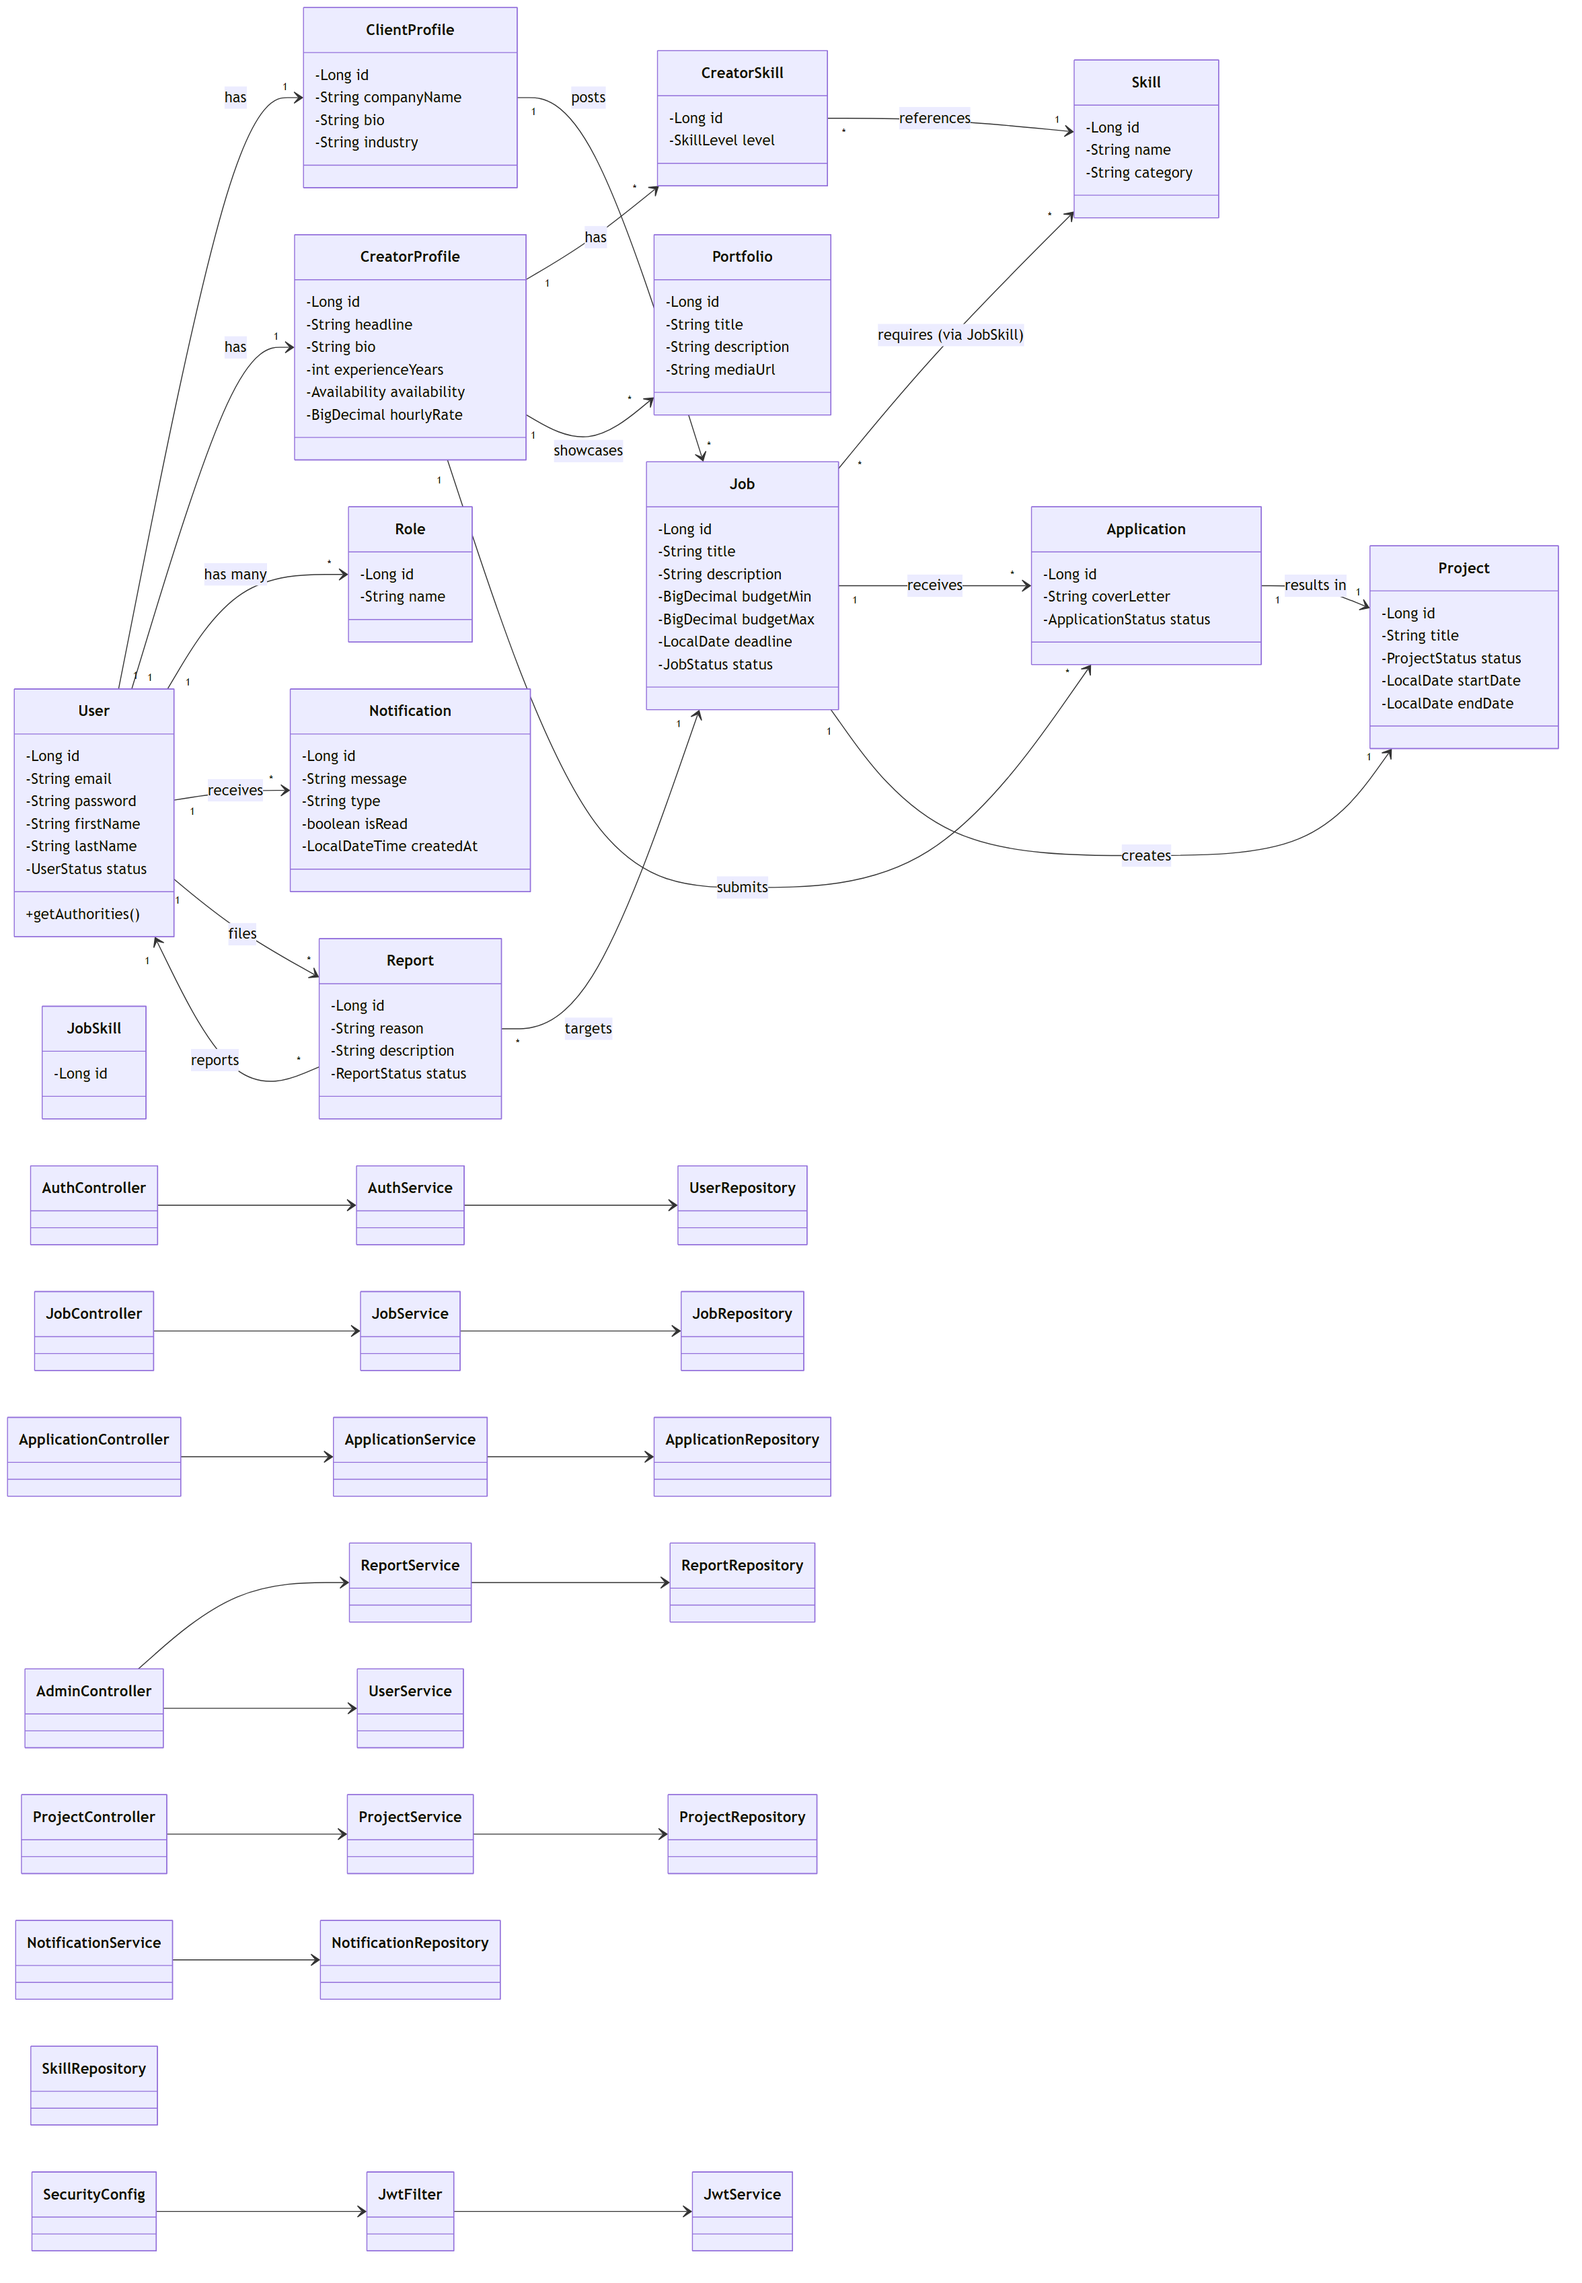
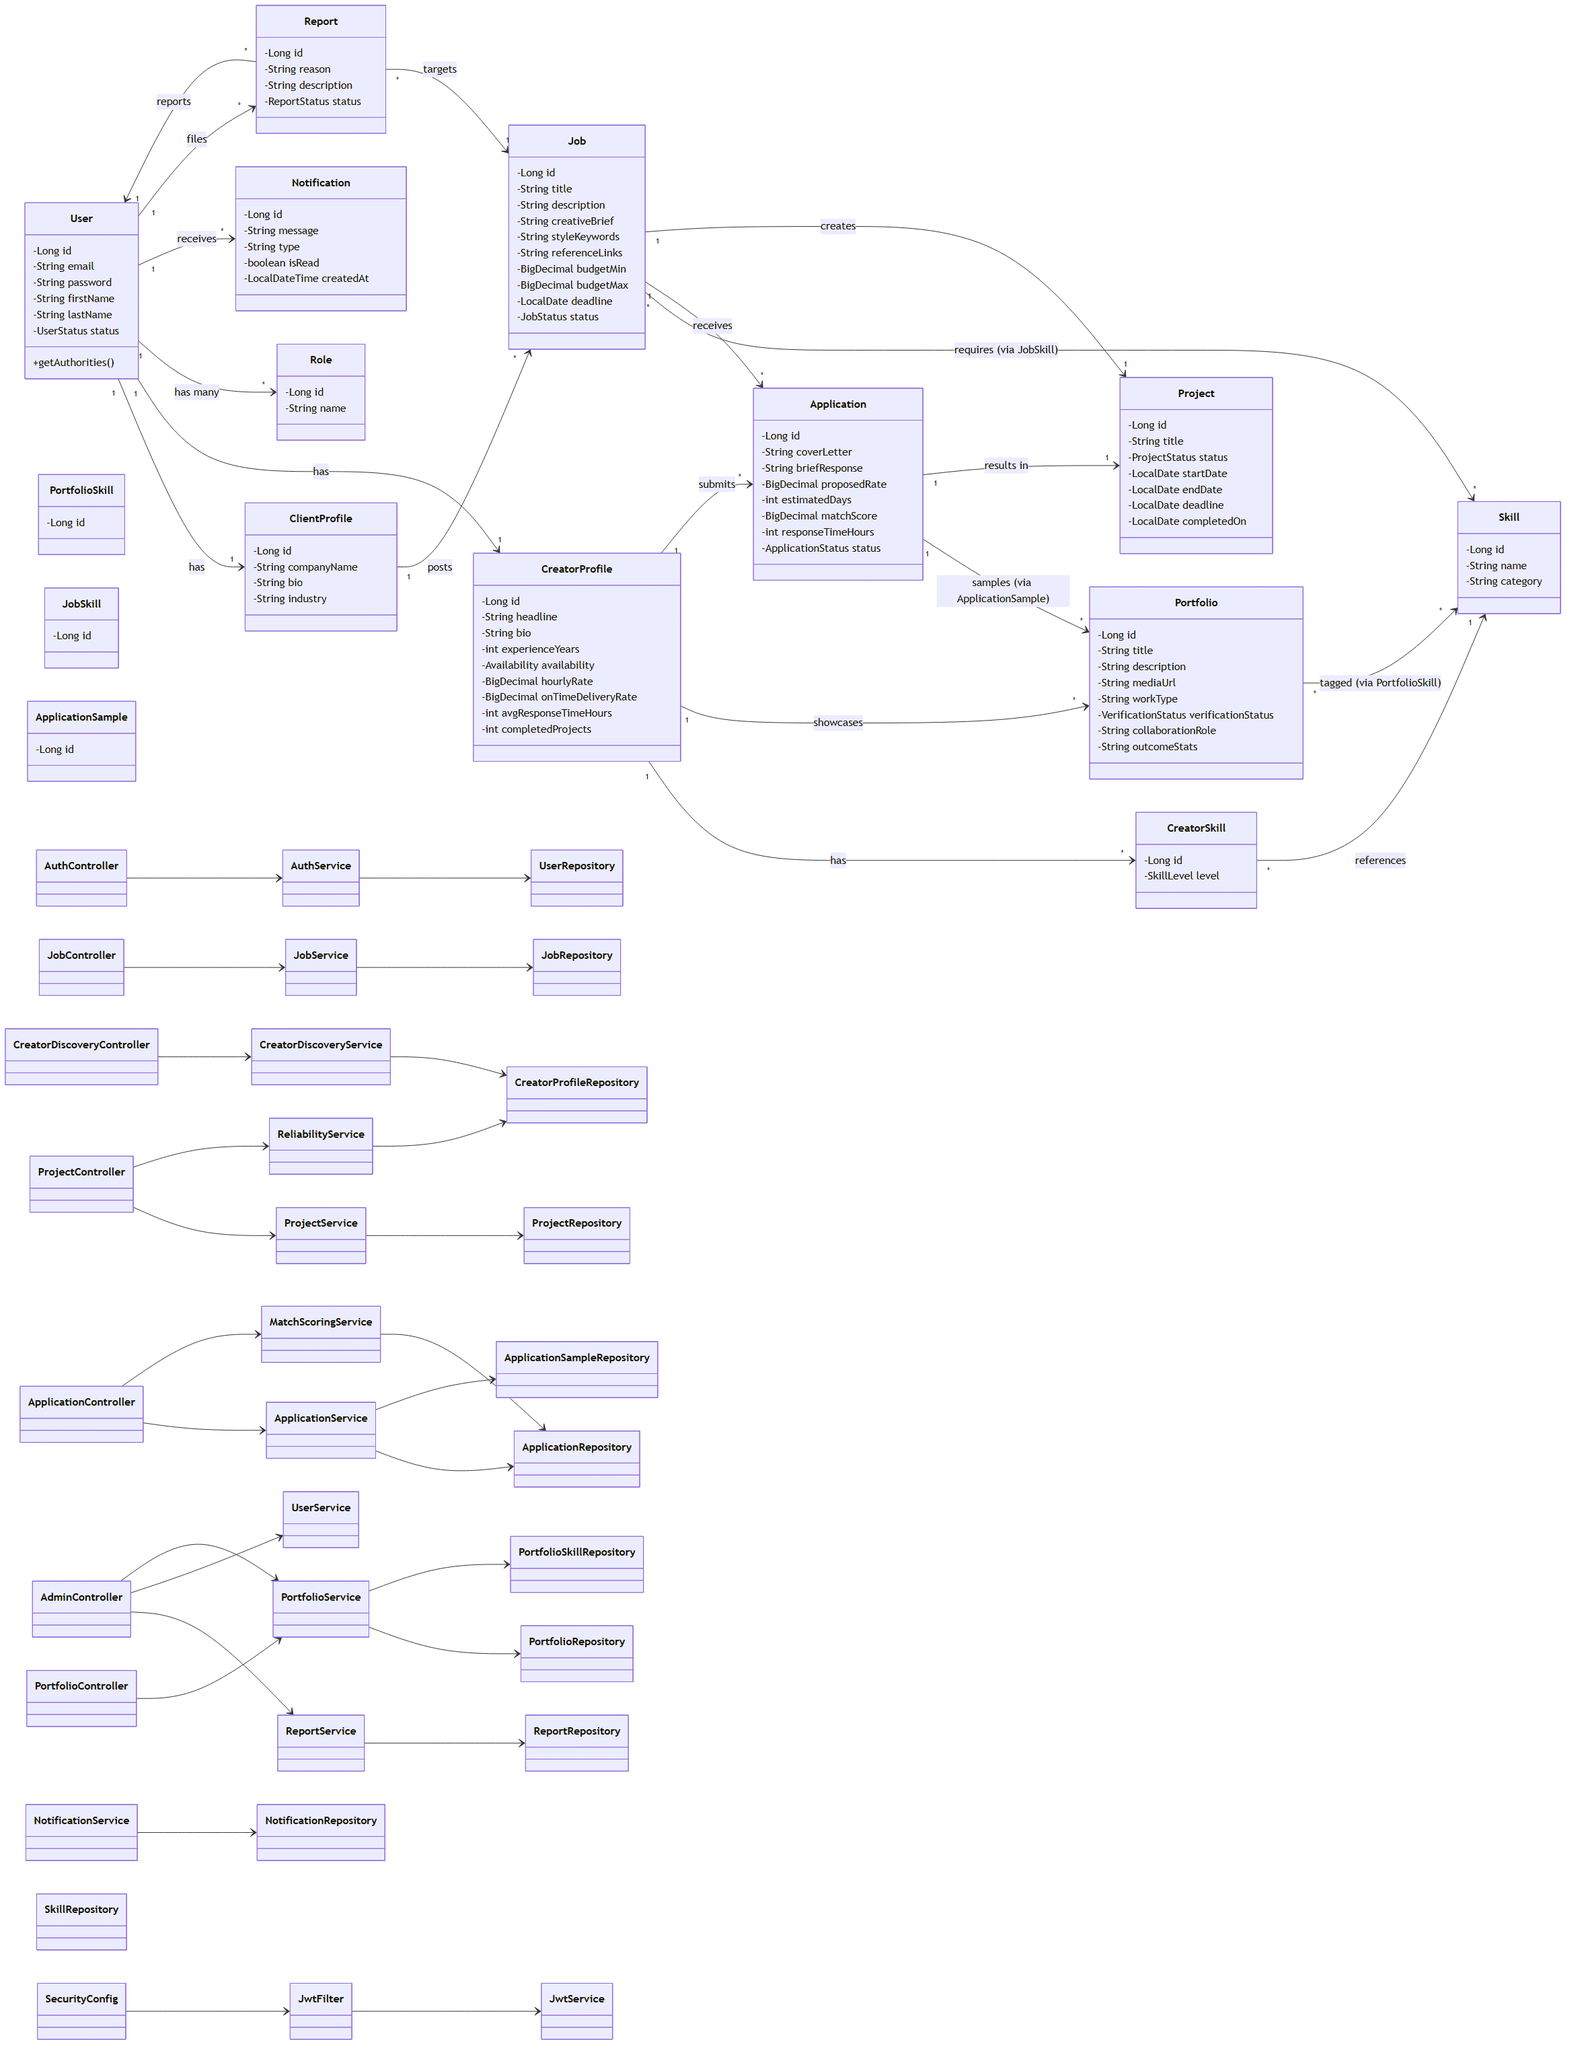
docs: rework class diagram and architecture with matching engine and radar

diff --git a/class-diagram.md b/class-diagram.md
@@ -35,6 +35,9 @@ classDiagram
         -int experienceYears
         -Availability availability
         -BigDecimal hourlyRate
+        -BigDecimal onTimeDeliveryRate
+        -int avgResponseTimeHours
+        -int completedProjects
     }
 
     class Skill {
@@ -53,12 +56,23 @@ classDiagram
         -String title
         -String description
         -String mediaUrl
+        -String workType
+        -VerificationStatus verificationStatus
+        -String collaborationRole
+        -String outcomeStats
+    }
+
+    class PortfolioSkill {
+        -Long id
     }
 
     class Job {
         -Long id
         -String title
         -String description
+        -String creativeBrief
+        -String styleKeywords
+        -String referenceLinks
         -BigDecimal budgetMin
         -BigDecimal budgetMax
         -LocalDate deadline
@@ -72,7 +86,16 @@ classDiagram
     class Application {
         -Long id
         -String coverLetter
+        -String briefResponse
+        -BigDecimal proposedRate
+        -int estimatedDays
+        -BigDecimal matchScore
+        -int responseTimeHours
         -ApplicationStatus status
+    }
+
+    class ApplicationSample {
+        -Long id
     }
 
     class Project {
@@ -81,6 +104,8 @@ classDiagram
         -ProjectStatus status
         -LocalDate startDate
         -LocalDate endDate
+        -LocalDate deadline
+        -LocalDate completedOn
     }
 
     class Notification {
@@ -100,23 +125,33 @@ classDiagram
 
     class AuthController
     class JobController
+    class CreatorDiscoveryController
     class ApplicationController
     class ProjectController
+    class PortfolioController
     class AdminController
 
     class AuthService
     class UserService
     class JobService
+    class CreatorDiscoveryService
+    class MatchScoringService
     class ApplicationService
     class ProjectService
+    class ReliabilityService
+    class PortfolioService
     class NotificationService
     class ReportService
 
     class UserRepository
     class JobRepository
+    class CreatorProfileRepository
     class ApplicationRepository
+    class ApplicationSampleRepository
     class ProjectRepository
     class SkillRepository
+    class PortfolioRepository
+    class PortfolioSkillRepository
     class NotificationRepository
     class ReportRepository
 
@@ -130,10 +165,12 @@ classDiagram
     CreatorProfile "1" --> "*" CreatorSkill : has
     CreatorSkill "*" --> "1" Skill : references
     CreatorProfile "1" --> "*" Portfolio : showcases
+    Portfolio "*" --> "*" Skill : tagged (via PortfolioSkill)
     ClientProfile "1" --> "*" Job : posts
     Job "*" --> "*" Skill : requires (via JobSkill)
     Job "1" --> "*" Application : receives
     CreatorProfile "1" --> "*" Application : submits
+    Application "1" --> "*" Portfolio : samples (via ApplicationSample)
     Job "1" --> "1" Project : creates
     Application "1" --> "1" Project : results in
     User "1" --> "*" Notification : receives
@@ -143,15 +180,26 @@ classDiagram
 
     AuthController --> AuthService
     JobController --> JobService
+    CreatorDiscoveryController --> CreatorDiscoveryService
     ApplicationController --> ApplicationService
+    ApplicationController --> MatchScoringService
     ProjectController --> ProjectService
+    ProjectController --> ReliabilityService
+    PortfolioController --> PortfolioService
     AdminController --> ReportService
     AdminController --> UserService
+    AdminController --> PortfolioService
 
     AuthService --> UserRepository
     JobService --> JobRepository
+    CreatorDiscoveryService --> CreatorProfileRepository
+    MatchScoringService --> ApplicationRepository
     ApplicationService --> ApplicationRepository
+    ApplicationService --> ApplicationSampleRepository
     ProjectService --> ProjectRepository
+    ReliabilityService --> CreatorProfileRepository
+    PortfolioService --> PortfolioRepository
+    PortfolioService --> PortfolioSkillRepository
     NotificationService --> NotificationRepository
     ReportService --> ReportRepository
 

diff --git a/system-architecture.md b/system-architecture.md
@@ -4,32 +4,52 @@
 
 ```mermaid
 flowchart TB
-    subgraph FRONTEND["Frontend (Web Client)"]
-        BROWSER["React Browser App"]
+    subgraph FRONTEND["Frontend — React + Vite + TypeScript"]
+        LANDING["Marketing Landing\n- Parallax scroll hero\n- Categories + CTAs"]
+        MARKET["Discovery (Card UI)\n- Creator Radar cards\n- Job cards + filters"]
+        COMPARE["Comparison View\n- Side-by-side shortlist"]
+        DASH["Dashboards\n- Client / Creator / Admin"]
     end
 
-    subgraph BACKEND["Spring Boot Application"]
+    subgraph BACKEND["Spring Boot Application (Java 21)"]
         SEC["Security Layer\n- JWT Filter\n- Authentication Manager\n- Role-based Authorization"]
-        CTRL["Controller Layer\n- REST Controllers (Auth, User, Job,\nApplication, Project, Admin)"]
-        SVC["Service Layer\n- Business Logic\n- Validation\n- Notifications"]
+        CTRL["Controller Layer\n- Auth, User, Job, CreatorDiscovery,\nApplication, Project, Portfolio, Admin"]
+        SVC["Service Layer\n- Business Logic + Validation"]
+        MATCH["Matching Engine\n- MatchScoringService\n- Skill / budget / availability /\ndeadline / reliability score"]
+        REL["Reliability Module\n- ReliabilityService\n- On-time rate + response time"]
+        RADAR["Creator Radar\n- CreatorDiscoveryService\n- Skill + availability search"]
         REPO["Repository Layer\n- Spring Data JPA Repositories"]
         XCUT["Cross-cutting\n- Exception Handler\n- Audit Logging"]
     end
 
-    DB[("MySQL Database\n- 13 tables\n- JPA-managed schema")]
+    DB[("MySQL Database\n- 15 tables\n- JPA-managed schema")]
 
-    BROWSER -->|"HTTPS JSON / REST + JWT"| SEC
+    LANDING --> MARKET
+    MARKET --> COMPARE
+    MARKET -->|"HTTPS JSON / REST + JWT"| SEC
+    COMPARE -->|"HTTPS JSON / REST + JWT"| SEC
+    DASH -->|"HTTPS JSON / REST + JWT"| SEC
     SEC --> CTRL
     CTRL --> SVC
+    SVC --> MATCH
+    SVC --> REL
+    SVC --> RADAR
+    MATCH --> REPO
+    REL --> REPO
+    RADAR --> REPO
     SVC --> REPO
     REPO --> DB
     XCUT -.->|"audit + error handling"| CTRL
     SVC -.->|"audit records"| XCUT
 
-    subgraph CLOUD["Cloud Deployment"]
-        CONTAINER["Docker Container"]
-        LB["Load Balancer"]
+    subgraph CLOUD["Cloud Deployment (Railway)"]
+        FE["Frontend Service\n- Static build"]
+        BE["Backend Service\n- Docker container"]
+        MYSQL[("Managed MySQL")]
+        LB["Public URL / Router"]
     end
-    BROWSER --> LB
-    LB --> CONTAINER
+    LANDING -.->|"served by"| FE
+    BE --> MYSQL
+    LB --> FE
+    LB --> BE
 ```
